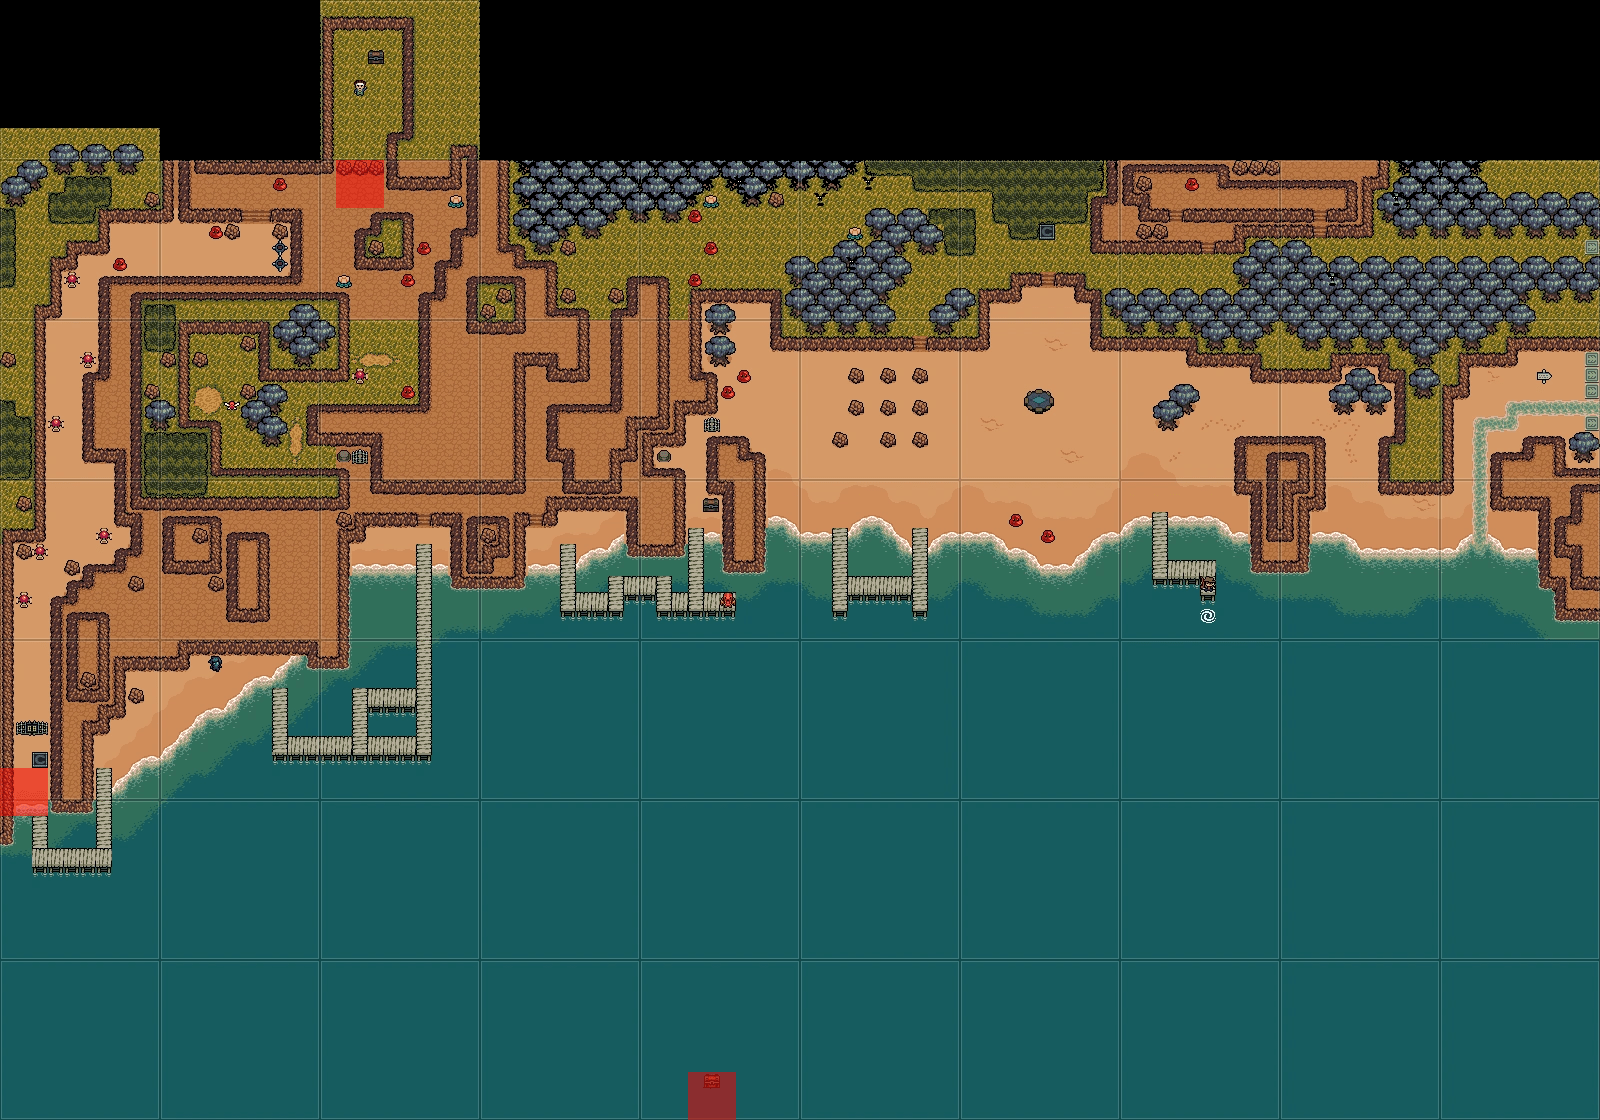
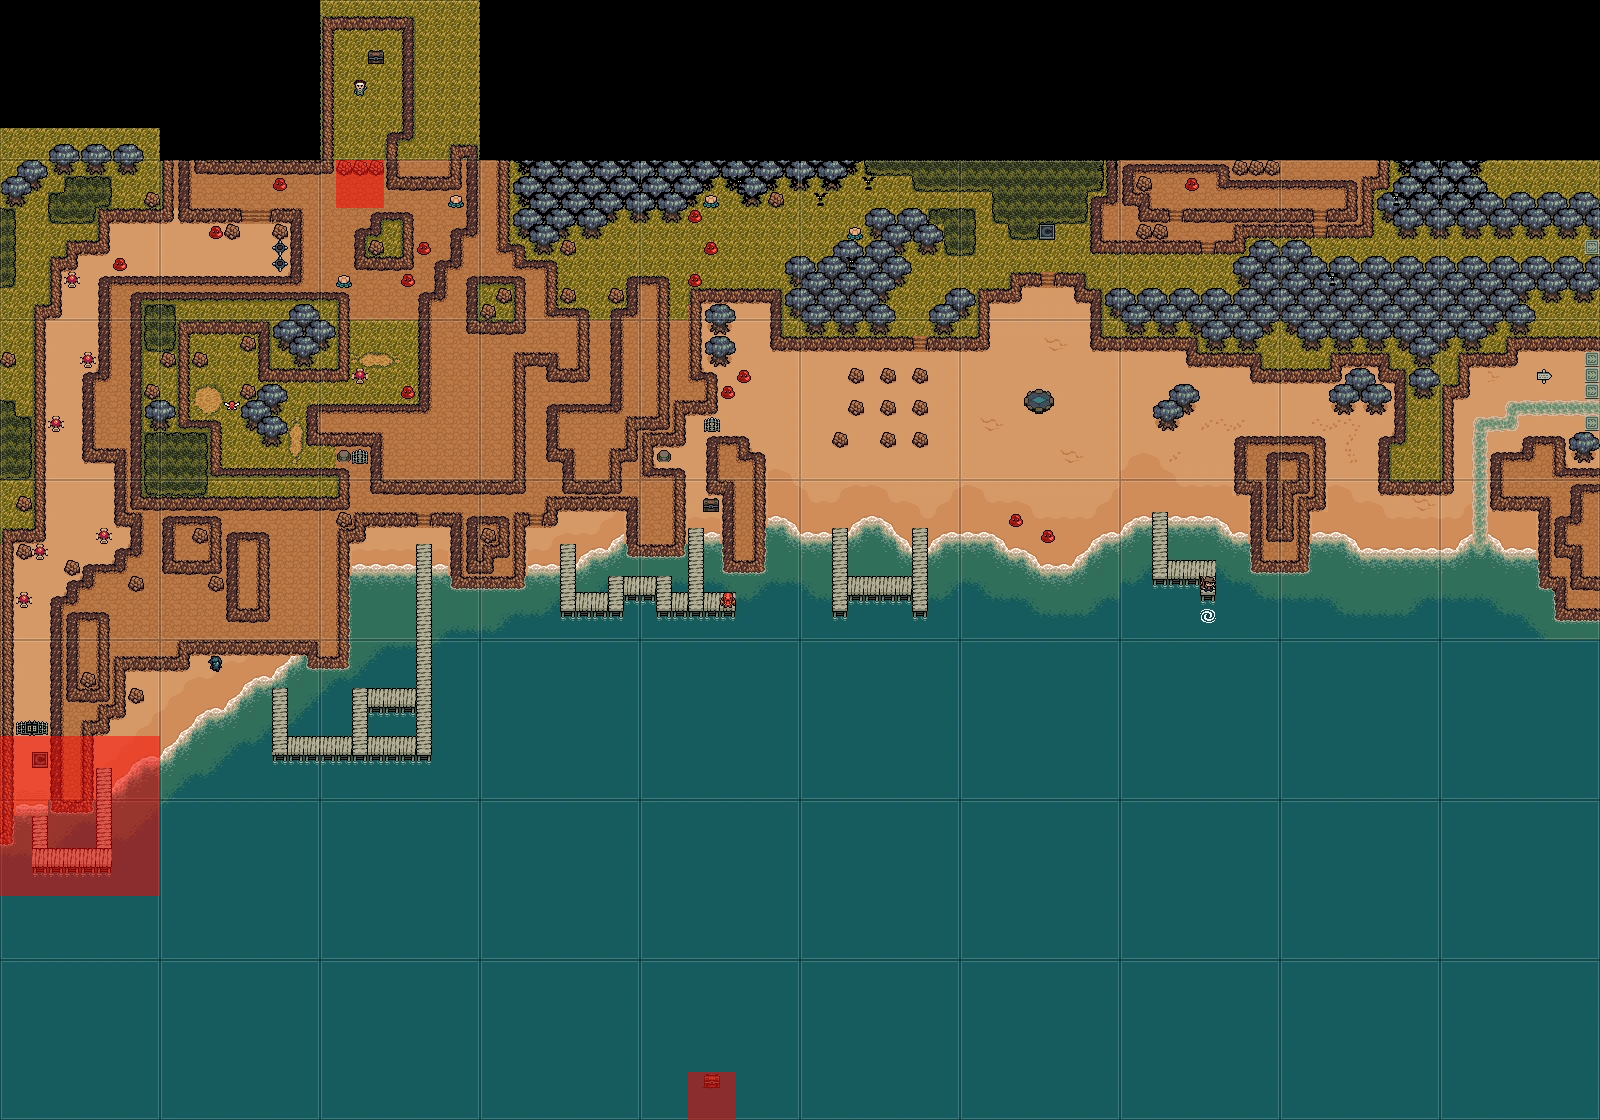
Updated swap regions

Changed region(s): [[0.0, 0.6562, 0.125, 0.8125]]

diff --git a/AnodyneArchipelago/SwapData.cs b/AnodyneArchipelago/SwapData.cs
@@ -14,7 +14,7 @@ namespace AnodyneArchipelago
                     case "APARTMENT": return new() { new Rectangle(1280, 1120, 161, 161) };
                     case "BEACH": return new() {
                         new Rectangle(336, 160, 48, 48),     // Secret glen
-                        new Rectangle(0, 768, 48, 48),       // Left edge, to get out of bounds
+                        new Rectangle(0, 736, 160, 160),     // Left edge, to get out of bounds
                         new Rectangle(688, 1072, 48, 64),    // Bottom edge, to get to secret chest
                     };
                     case "BEDROOM": return new() { new Rectangle(832, 368, 256, 416) };
@@ -22,7 +22,11 @@ namespace AnodyneArchipelago
                         new Rectangle(0, 0, 480, 960),       // Left half
                         new Rectangle(640, 0, 320, 1120),    // Right half
                     };
-                    case "CELL": return new() { new Rectangle(160, 320, 160, 160) };
+                    case "CELL": return new() {
+                        // This is basically all of the map except for the outer walls, the 24 Card Gate area, and the gauntlet
+                        new Rectangle(16, 16, 1248, 704),
+                        new Rectangle(16, 720, 768, 544),
+                    };
                     case "CIRCUS": return new() { new Rectangle(1120, 0, 161, 161) };
                     case "DRAWER": return new() { new Rectangle(0, 0, 960, 1440) };
                     case "FIELDS": return new() {
@@ -42,7 +46,7 @@ namespace AnodyneArchipelago
                         new Rectangle(480, 80, 160, 48),     // Roof secret
                     };
                     case "OVERWORLD": return new() { new Rectangle(16, 480, 272, 176) };
-                    case "REDSEA": return new() { new Rectangle(160, 800, 160, 160) };
+                    case "REDSEA": return new() { new Rectangle(480, 976, 160, 112) };
                     case "SUBURB": return new() { new Rectangle(320, 640, 160, 160) };
                     case "STREET": return new() { new Rectangle(160, 864, 160, 160) };
                     case "SPACE": return new() { new Rectangle(800, 640, 160, 160) };

diff --git a/docs/extended_swap.md b/docs/extended_swap.md
@@ -1,9 +1,16 @@
 # Extended Swap
+The Broom's Swap upgrade allows you to select two reachable tiles and swap them. When you first acquire the Swap, its use is very limited. You are only able to use it on the color puzzle in GO, as well as in the post-boss rooms in Apartment, Circus, and Hotel (which contain the hints needed to solve the GO color puzzle). The limited Swap in the modded game behaves exactly like this.
+
 After defeating the Briar in the base game, the Broom's Swap upgrade is fully unlocked, allowing you to use the ability almost everywhere in the game. This gives you access to several postgame items and areas that are otherwise unreachable. However, it also breaks through almost every progression barrier in the game, which destroys Archipelago's logic.
 
-To remedy this, the fully unlocked Swap ability never becomes available in the modded game. Instead, an "Extended Swap" can be unlocked, depending on what your postgame mode is. If it is set to Vanilla, this unlocks once you defeat Briar (as long as you have the Swap item, of course). If it is set to Unlocked, Extended Swap immediately becomes available upon receiving the Swap item. If it is set to Progressive, the first Progressive Swap you receive gives you the limited Swap from the base game (in which it is only usable in the single post-boss rooms in Hotel, Apartment, and Circus, as well as the GO color puzzle), and the second Progressive Swap you receive unlocks Extended Swap.
+To remedy this, the fully unlocked Swap ability never becomes available in the modded game. Instead, an "Extended Swap" can be unlocked, depending on what your postgame mode is.
 
-Extended Swap expands the swappable areas to include terrain near postgame content. This allows you to use Swap to access these areas, without completely destroying logic. These areas are not indicated clearly in-game, but you can use this file to see where they are.
+* **Disabled**: You only ever have access to the limited Swap described above.
+* **Vanilla**: The Swap item is limited until you defeat Briar, at which point it becomes Extended Swap.
+* **Unlocked**: Extended Swap is available as soon as you get the Swap item.
+* **Progressive**: There are two "Progressive Swap" items in the pool. The first gives you limited Swap, and the second gives you Extended Swap.
+
+Extended Swap expands the swappable areas to include terrain near postgame content. This allows you to use Swap to access these areas, without completely destroying logic. The rest of this document shows the swappable regions available to you when you have Extended Swap.
 
 ## Apartment
 This map has the vanilla pre-Briar behavior, i.e. you can only swap in the post-boss room.
